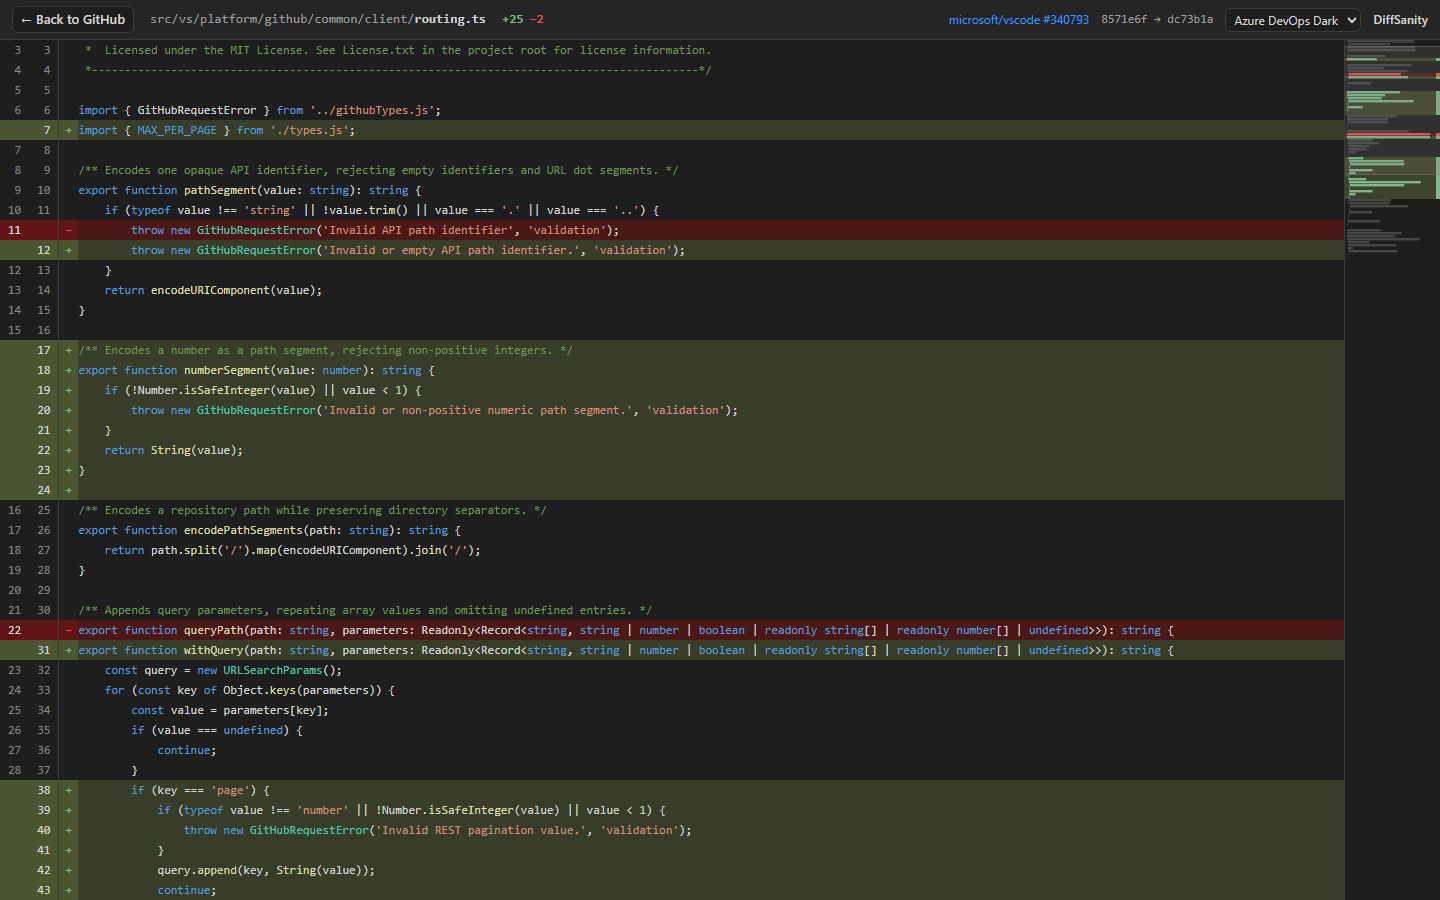
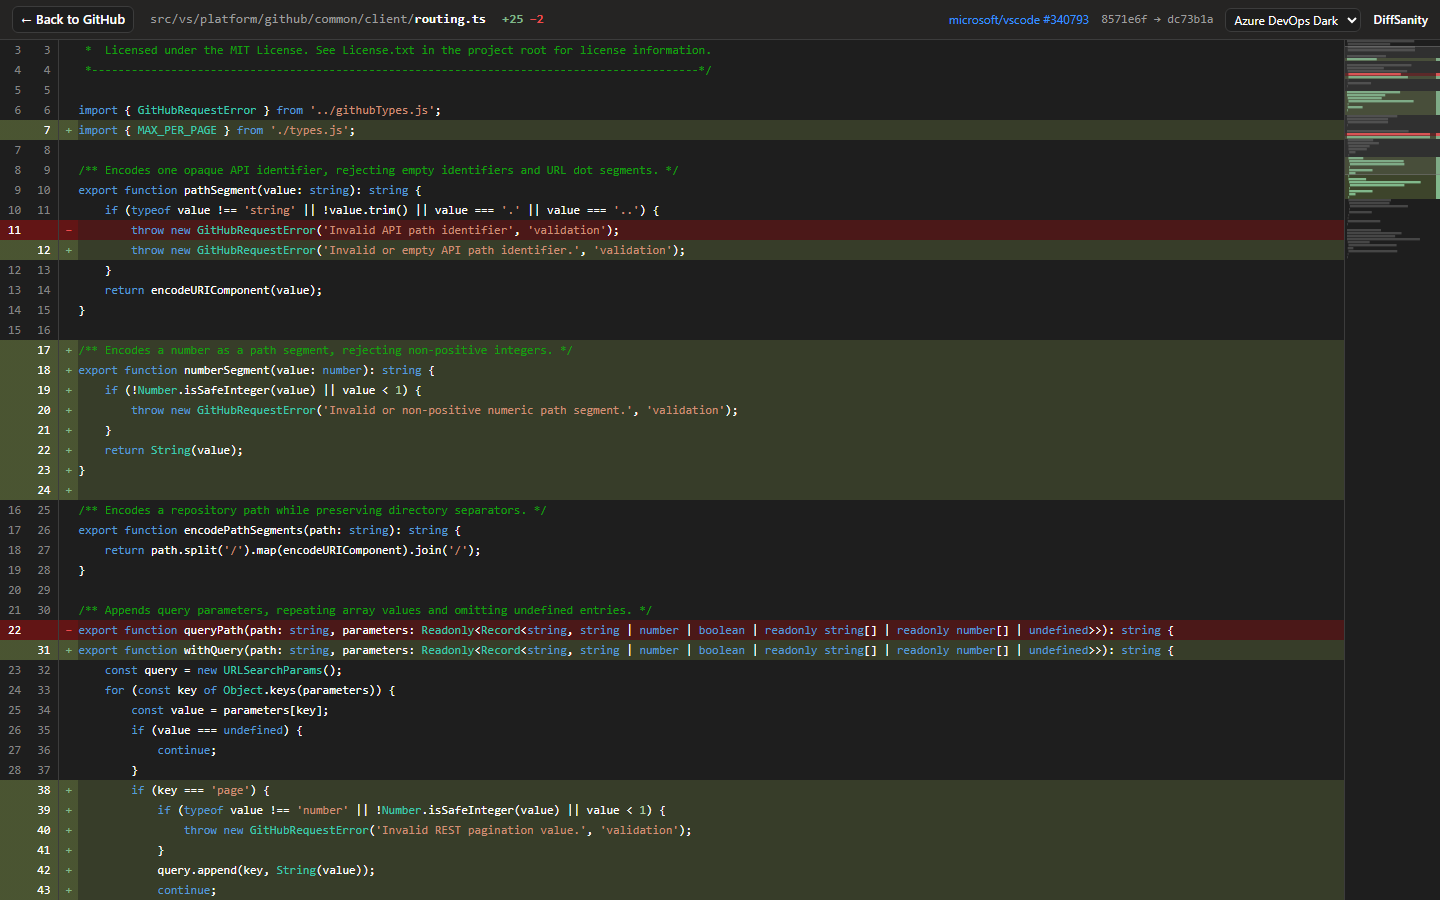
Match Azure DevOps themes to Monaco's colours
ADO shows files in Monaco (vs-dark / vs), not VS Code Dark+: all keywords are blue, identifiers and functions use the plain foreground, capitalised identifiers are types, and the font is Consolas.

diff --git a/src/review/syntax.ts b/src/review/syntax.ts
@@ -92,6 +92,45 @@ export function tokensToLines(tokens: TokenStream): string[] {
   return lines;
 }
 
+/** Languages where, as in Monaco's tokenizer, every capitalised identifier is a type name. */
+const TYPE_NAME_LANGUAGES = new Set(['javascript', 'typescript', 'jsx', 'tsx']);
+/** Tokens whose text is not code, so capitalised words inside them are left alone. */
+const NON_CODE_TOKENS = new Set(['comment', 'hashbang', 'string', 'char', 'regex', 'attr-value', 'plain-text']);
+const CAPITALISED_WORD = /(?<![\w$])[A-Z][\w$]*/g;
+const TYPE_NAME_CLASS = 'type-name';
+
+function splitTypeNames(text: string): Array<string | Prism.Token> {
+  const parts: Array<string | Prism.Token> = [];
+  let last = 0;
+  for (const match of text.matchAll(CAPITALISED_WORD)) {
+    if (match.index > last) parts.push(text.slice(last, match.index));
+    parts.push(new Prism.Token(TYPE_NAME_CLASS, match[0]));
+    last = match.index + match[0].length;
+  }
+  if (last < text.length) parts.push(text.slice(last));
+  return parts;
+}
+
+/**
+ * Tags capitalised identifiers with a `type-name` class: plain text is split into type-name tokens
+ * and capitalised tokens (`Promise`, `String(…)`, `MAX_SIZE`) get it as an extra alias.
+ * Only themes that style `.type-name` (Azure DevOps) change; others look the same.
+ */
+function markTypeNames(stream: Prism.TokenStream): Prism.TokenStream {
+  const items = Array.isArray(stream) ? stream : [stream];
+  return items.flatMap((item) => {
+    if (typeof item === 'string') return splitTypeNames(item);
+    if (NON_CODE_TOKENS.has(item.type)) return [item];
+    if (typeof item.content !== 'string') {
+      item.content = markTypeNames(item.content);
+    } else if (/^[A-Z]/.test(item.content)) {
+      const aliases = Array.isArray(item.alias) ? item.alias : item.alias ? [item.alias] : [];
+      item.alias = [...aliases, TYPE_NAME_CLASS];
+    }
+    return [item];
+  });
+}
+
 /**
  * Highlights a whole file (so multi-line constructs are understood) and returns HTML per line,
  * aligned with `splitLines(content)`. Returns null when the language is unknown or the file is too large.
@@ -99,8 +138,9 @@ export function tokensToLines(tokens: TokenStream): string[] {
 export function highlightLines(lines: readonly string[], path: string): string[] | null {
   const language = languageForPath(path);
   const grammar = language ? Prism.languages[language] : undefined;
-  if (!grammar) return null;
+  if (!language || !grammar) return null;
   const text = lines.join('\n');
   if (text.length > MAX_HIGHLIGHT_CHARS) return null;
-  return tokensToLines(Prism.tokenize(text, grammar));
+  const tokens = Prism.tokenize(text, grammar);
+  return tokensToLines(TYPE_NAME_LANGUAGES.has(language) ? markTypeNames(tokens) : tokens);
 }

diff --git a/styles/review.css b/styles/review.css
@@ -78,14 +78,16 @@
 }
 
 /*
- * Azure DevOps themes. ADO shows files in the Monaco editor, so these use VS Code's Dark+ / Light+ colours.
+ * Azure DevOps themes. ADO shows files in the Monaco editor, so these use Monaco's vs-dark / vs colours
+ * (dark values sampled from ADO's file viewer). The Monaco token mapping is at the end of this file.
  * Optional slots (--ds-line-number, --ds-syn-number/property/variable) fall back to the closest base colour.
  */
 :root[data-theme="ado-dark"] {
   color-scheme: dark;
+  --ds-font-mono: Consolas, Menlo, Monaco, "Courier New", monospace;
   --ds-bg: #1e1e1e;
-  --ds-bg-subtle: #252526;
-  --ds-fg: #d4d4d4;
+  --ds-bg-subtle: #252423;
+  --ds-fg: #ffffff;
   --ds-fg-muted: #9d9d9d;
   --ds-border: #3c3c3c;
   --ds-accent: #3794ff;
@@ -109,24 +111,25 @@
   --ds-comment: #8957e5;
   --ds-minimap-comment: #c586c0;
 
-  --ds-syn-comment: #6a9955;
+  --ds-syn-comment: #13a10e;
   --ds-syn-keyword: #569cd6;
   --ds-syn-string: #ce9178;
   --ds-syn-constant: #569cd6;
   --ds-syn-number: #b5cea8;
   --ds-syn-property: #9cdcfe;
-  --ds-syn-variable: #9cdcfe;
-  --ds-syn-function: #dcdcaa;
-  --ds-syn-type: #4ec9b0;
+  --ds-syn-variable: var(--ds-fg);
+  --ds-syn-function: var(--ds-fg);
+  --ds-syn-type: #3dc9b0;
   --ds-syn-tag: #569cd6;
-  --ds-syn-regex: #d16969;
+  --ds-syn-regex: #b46695;
 }
 
 :root[data-theme="ado-light"] {
   color-scheme: light;
+  --ds-font-mono: Consolas, Menlo, Monaco, "Courier New", monospace;
   --ds-bg: #ffffff;
   --ds-bg-subtle: #f3f3f3;
-  --ds-fg: #1f1f1f;
+  --ds-fg: #000000;
   --ds-fg-muted: #616161;
   --ds-border: #e5e5e5;
   --ds-accent: #0078d4;
@@ -155,9 +158,9 @@
   --ds-syn-string: #a31515;
   --ds-syn-constant: #0000ff;
   --ds-syn-number: #098658;
-  --ds-syn-property: #001080;
-  --ds-syn-variable: #001080;
-  --ds-syn-function: #795e26;
+  --ds-syn-property: #0451a5;
+  --ds-syn-variable: var(--ds-fg);
+  --ds-syn-function: var(--ds-fg);
   --ds-syn-type: #267f99;
   --ds-syn-tag: #800000;
   --ds-syn-regex: #811f3f;
@@ -568,4 +571,14 @@ a:hover {
 .token.template-punctuation,
 .token.interpolation-punctuation {
   color: var(--ds-syn-string);
+}
+
+/* Monaco (Azure DevOps) colours capitalised identifiers as types, and arrows like other punctuation. */
+:root[data-theme^="ado-"] .token.type-name,
+:root[data-theme^="ado-"] .token.constant {
+  color: var(--ds-syn-type);
+}
+
+:root[data-theme^="ado-"] .token.operator.arrow {
+  color: inherit;
 }

diff --git a/test/syntax.test.ts b/test/syntax.test.ts
@@ -40,4 +40,20 @@ describe('highlightLines', () => {
   it('returns null for unknown languages', () => {
     expect(highlightLines(['x'], 'file.unknownext')).toBeNull();
   });
+
+  it('marks capitalised identifiers in JS/TS as type names, but not inside strings or comments', () => {
+    const [html] = highlightLines(
+      ["const r: Record<string, Promise<X>> = String(new Foo()); const $Bar = 'Hello'; // Note"],
+      'x.ts',
+    )!;
+    const typeNames = [...html.matchAll(/<span class="([^"]*)">([^<]*)<\/span>/g)]
+      .filter(([, classes]) => classes.split(' ').includes('type-name'))
+      .map(([, , text]) => text);
+    expect(typeNames).toEqual(['Record', 'Promise', 'X', 'String', 'Foo']);
+    expect(html).toContain('token builtin type-name'); // Promise keeps its builtin colour elsewhere
+  });
+
+  it('leaves other languages untouched', () => {
+    expect(highlightLines(['class Foo: pass'], 'x.py')![0]).not.toContain('type-name');
+  });
 });

diff --git a/README.md b/README.md
@@ -10,7 +10,7 @@ DiffSanity is a Chrome extension (Manifest V3) for reviewing GitHub pull request
 - An **Azure DevOps / VS Code-style minimap** on the right shows where every change is. Click or drag it to jump.
 - **Comments go through GitHub.** Hover a line and click **+** to open GitHub's own comment box for it in the PR tab. Existing review threads appear as purple markers in the gutter and on the minimap. Click one to jump to the conversation.
 - **Back to GitHub** returns to the PR tab you came from and closes the review tab.
-- **Colour themes.** Pick one from the dropdown at the top right: *Match GitHub* (the default, which follows your GitHub light/dark mode), *GitHub Light*, *GitHub Dark*, *Azure DevOps Dark* (VS Code Dark+ colours) or *Azure DevOps Light* (VS Code Light+). Your choice is saved in the extension's local storage and applies to all review tabs.
+- **Colour themes.** Pick one from the dropdown at the top right: *Match GitHub* (the default, which follows your GitHub light/dark mode), *GitHub Light*, *GitHub Dark*, *Azure DevOps Dark* or *Azure DevOps Light* (the Monaco editor colours and font ADO uses to show files). Your choice is saved in the extension's local storage and applies to all review tabs.
 
 Everything runs in your browser. There is no backend, no OAuth and no tokens.
 
